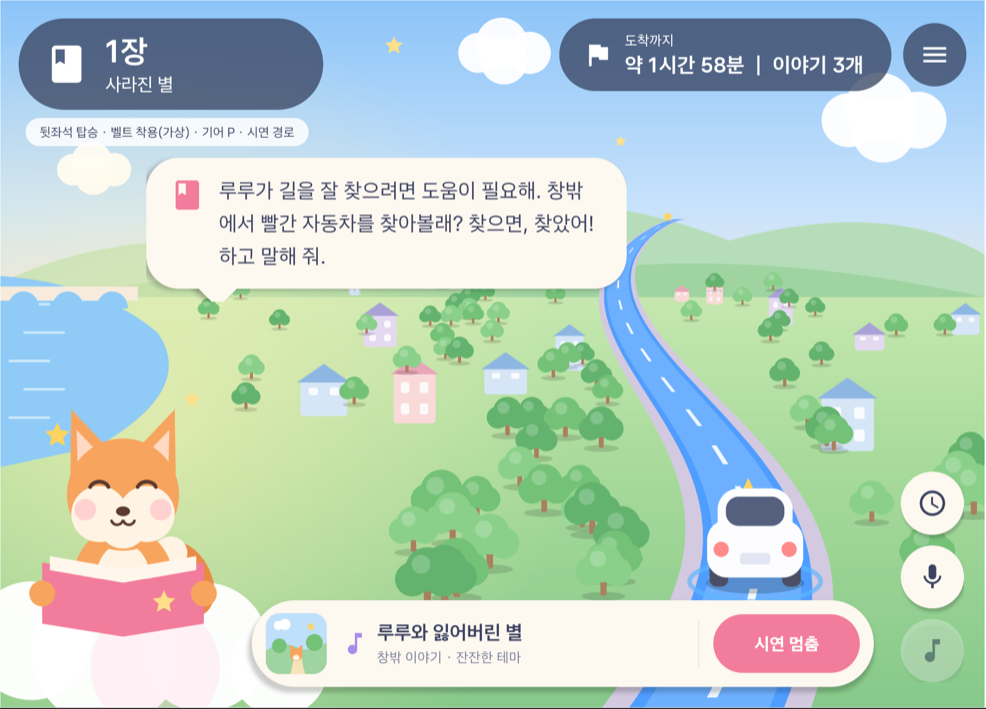
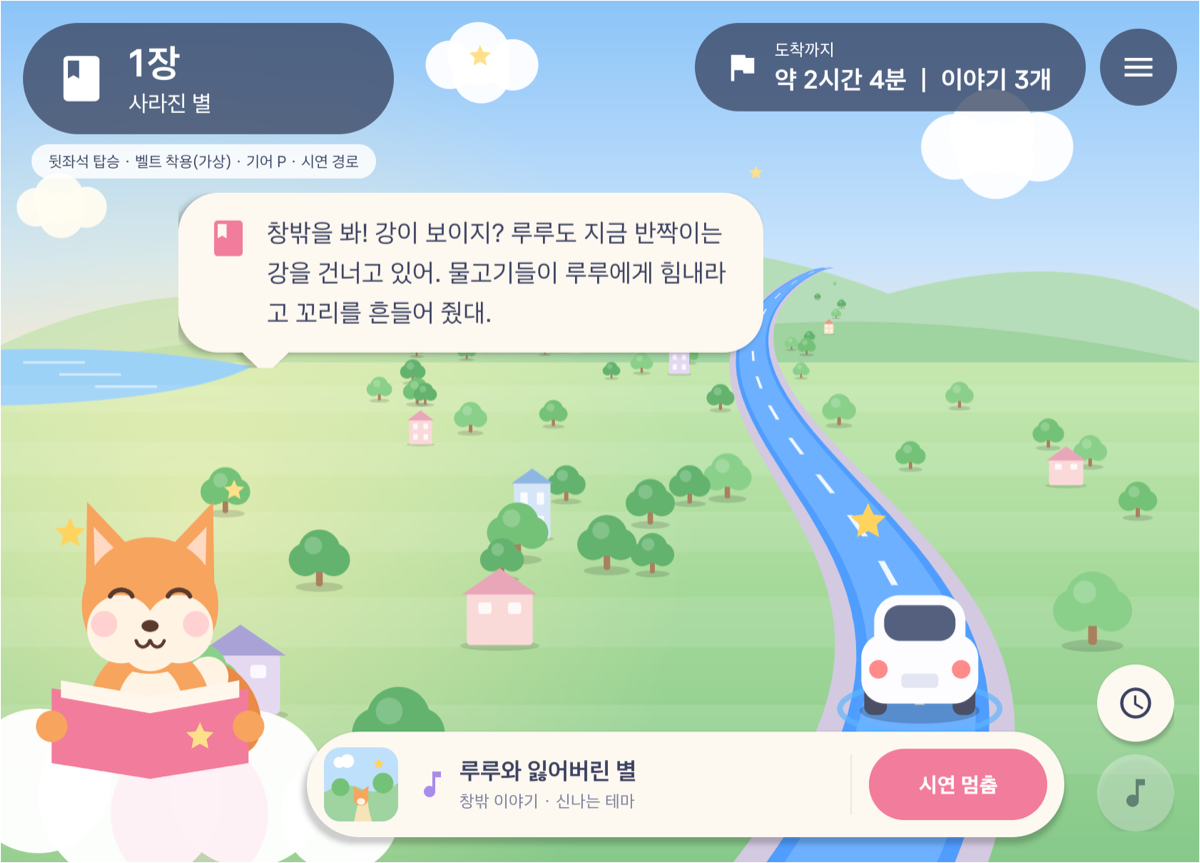
달릴 때 나무·집·땅이 길과 함께 다가오도록 배경 수정
- 길의 점선, 땅 줄무늬, 나무, 집이 같은 속도로 움직임
- 고정돼 있던 강과 다리는 멀리 있는 호수로 변경
- 스크린샷 갱신

diff --git a/WindowStory/app/src/main/java/com/changbak/story/ui/SceneView.kt b/WindowStory/app/src/main/java/com/changbak/story/ui/SceneView.kt
@@ -13,13 +13,14 @@ import android.os.SystemClock
 import android.util.AttributeSet
 import android.view.View
 import kotlin.math.PI
-import kotlin.math.abs
 import kotlin.math.pow
 import kotlin.math.sin
 
 /**
- * 동화책 느낌의 배경 장면. 하늘, 언덕, 강, 마을, 목적지로 이어지는 길, 자동차, 이야기꾼 여우 루루를 그린다.
+ * 동화책 느낌의 배경 장면. 하늘, 언덕, 호수, 마을, 목적지로 이어지는 길, 자동차, 이야기꾼 여우 루루를 그린다.
  *
+ * 달리는 동안에는 길의 점선뿐 아니라 길가의 나무와 집, 땅의 줄무늬가 함께 다가와서
+ * 자동차가 앞으로 나아가는 것처럼 보인다.
  * 길 위의 별은 다음 장이 시작되는 지점이고, 깃발은 목적지다.
  * 진행률이 오를수록 별과 깃발이 자동차 쪽으로 다가온다.
  */
@@ -36,7 +37,7 @@ class SceneView @JvmOverloads constructor(
         }
     var chapterCount = 4
 
-    /** true면 길의 점선이 흘러 자동차가 달리는 것처럼 보인다. */
+    /** true면 길과 주변 풍경이 다가와 자동차가 달리는 것처럼 보인다. */
     var moving = false
         set(value) {
             if (field == value) return
@@ -52,8 +53,20 @@ class SceneView @JvmOverloads constructor(
             invalidate()
         }
 
-    private class Tree(val x: Float, val y: Float, val size: Float, val tone: Int)
-    private class House(val x: Float, val y: Float, val w: Float, val h: Float, val color: Int, val roof: Int)
+    /**
+     * 길가의 나무나 집 하나. 화면 좌표가 아니라 "길을 따라 얼마나 멀리 있는지"(dist)로 위치를 기억한다.
+     * 차가 달리면 dist가 줄어들어 점점 가까워지고 커지며, 화면 아래로 지나가면 다시 지평선에서 나타난다.
+     */
+    private class Scenery(
+        val dist: Float,      // 0(바로 앞)~1(지평선). 정지 상태에서의 거리
+        val side: Float,      // -1 길 왼쪽, +1 길 오른쪽
+        val lateral: Float,   // 길에서 옆으로 떨어진 정도(길 반폭의 배수)
+        val isHouse: Boolean,
+        val size: Float,      // 나무 크기 또는 집 반폭
+        val tall: Float,      // 집 높이
+        val color: Int,
+        val roof: Int,
+    )
 
     private val fill = Paint(Paint.ANTI_ALIAS_FLAG)
     private val stroke = Paint(Paint.ANTI_ALIAS_FLAG).apply { style = Paint.Style.STROKE; strokeCap = Paint.Cap.ROUND }
@@ -62,10 +75,12 @@ class SceneView @JvmOverloads constructor(
     private var skyShader: Shader? = null
     private var groundShader: Shader? = null
     private var sunShader: Shader? = null
-    private val trees = mutableListOf<Tree>()
-    private val houses = mutableListOf<House>()
 
-    private var roadPhase = 0f
+    /** dist 오름차순으로 정렬해 둔다. */
+    private var scenery = emptyList<Scenery>()
+
+    /** 지금까지 달린 거리(0~1을 되풀이). 길의 점선, 땅의 줄무늬, 나무와 집이 모두 이 값으로 함께 움직인다. */
+    private var travel = 0f
     private var cloudShift = 0f
     private var lastFrame = 0L
 
@@ -73,6 +88,12 @@ class SceneView @JvmOverloads constructor(
     private fun roadX(u: Float) = width * (0.705f - 0.03f * u + 0.075f * sin(u * PI.toFloat() * 2.1f) * (1f - 0.35f * u))
     private fun roadY(u: Float) = height * (0.31f + 0.72f * (1f - u).pow(1.6f))
     private fun roadHalf(u: Float) = 10f + width * 0.105f * (1f - u).pow(1.7f)
+
+    /** 거리(0~1)를 화면의 길 위치 u로 바꾼다. 가까울수록 빨리 다가오는 것처럼 보이게 한다. */
+    private fun distToU(dist: Float) = dist.pow(0.75f)
+
+    /** 멀수록 작게 그리는 비율. 지평선에서는 0이라 새로 나타나는 것이 티 나지 않는다. */
+    private fun depthScale(u: Float) = 1.3f * (1f - u).pow(1.5f)
 
     override fun onSizeChanged(w: Int, h: Int, oldw: Int, oldh: Int) {
         val hf = h.toFloat()
@@ -90,50 +111,44 @@ class SceneView @JvmOverloads constructor(
             w * 0.16f, hf * 0.6f, w * 0.42f,
             intArrayOf(0x99FFF3B8.toInt(), 0x00FFF3B8), null, Shader.TileMode.CLAMP,
         )
-        placeScenery(w.toFloat(), hf)
+        if (scenery.isEmpty()) scenery = makeScenery()
     }
 
-    /** 나무와 집을 길과 강을 피해 흩어 놓는다. 위치는 항상 같다. */
-    private fun placeScenery(w: Float, h: Float) {
-        trees.clear()
-        houses.clear()
+    /** 길 양옆에 나무와 집을 흩어 놓는다. 항상 같은 배치가 나온다. */
+    private fun makeScenery(): List<Scenery> {
         var seed = 12345L
         fun rnd(): Float {
             seed = (seed * 1103515245L + 12345L) and 0x7fffffffL
             return seed / 2147483647f
         }
-        fun freeOfRoad(x: Float, y: Float, margin: Float): Boolean {
-            val u = (1f - ((y / h - 0.31f) / 0.72f).coerceIn(0f, 1f).pow(1f / 1.6f))
-            return abs(x - roadX(u)) > roadHalf(u) + margin
-        }
         val houseColors = intArrayOf(0xFFF7E3C8.toInt(), 0xFFE5D9F2.toInt(), 0xFFD6E6F7.toInt(), 0xFFFAD9D9.toInt())
         val roofColors = intArrayOf(0xFFE89A8B.toInt(), 0xFFA9A2D6.toInt(), 0xFF8DB7E2.toInt(), 0xFFE9A6B8.toInt())
-        repeat(60) {
-            val y = h * (0.40f + 0.24f * rnd())
-            val x = w * (0.30f + 0.70f * rnd())
-            val scale = ((y / h - 0.34f) / 0.3f).coerceIn(0.25f, 1.2f)
-            val hw = 44f * scale * (0.8f + 0.5f * rnd())
-            val hh = 78f * scale * (0.7f + 0.9f * rnd())
+        val list = mutableListOf<Scenery>()
+        // 길이 화면 오른쪽에 있어서 왼쪽 들판이 넓다. 왼쪽에 더 많이, 더 멀리까지 놓는다.
+        repeat(TREE_COUNT) { i ->
+            val left = i % 10 < 7
+            val lateral = if (left) 1.5f + 15f * rnd().pow(1.4f) else 1.5f + 5f * rnd()
+            list.add(
+                Scenery(
+                    dist = rnd(), side = if (left) -1f else 1f, lateral = lateral, isHouse = false,
+                    size = 46f + 30f * rnd(), tall = 0f,
+                    color = TREE_TONES[(rnd() * TREE_TONES.size).toInt().coerceIn(0, TREE_TONES.size - 1)], roof = 0,
+                ),
+            )
+        }
+        repeat(HOUSE_COUNT) { i ->
+            val left = i % 4 != 0
             val pick = (rnd() * 4).toInt().coerceIn(0, 3)
-            val tooClose = houses.any { abs(it.x - x) < (it.w + hw) * 1.25f && abs(it.y - y) < 60f }
-            if (houses.size < 12 && !tooClose && freeOfRoad(x, y, hw + 24f)) {
-                houses.add(House(x, y, hw, hh, houseColors[pick], roofColors[pick]))
-            }
+            list.add(
+                Scenery(
+                    dist = (i + rnd() * 0.8f) / HOUSE_COUNT, side = if (left) -1f else 1f,
+                    lateral = if (left) 2.6f + 9f * rnd() else 2.6f + 3f * rnd(), isHouse = true,
+                    size = 40f + 22f * rnd(), tall = 70f + 70f * rnd(),
+                    color = houseColors[pick], roof = roofColors[pick],
+                ),
+            )
         }
-        repeat(220) {
-            val y = h * (0.39f + 0.60f * rnd())
-            val x = w * rnd()
-            val depth = ((y / h - 0.36f) / 0.64f).coerceIn(0f, 1f)
-            val size = 16f + 70f * depth.pow(1.4f) * (0.7f + 0.6f * rnd())
-            val inRiver = x < w * 0.17f && y < h * 0.62f
-            val inFoxCorner = x < w * 0.36f && y > h * 0.60f
-            val underBar = y > h * 0.86f && x > w * 0.25f
-            if (trees.size < 70 && !inRiver && !inFoxCorner && !underBar && freeOfRoad(x, y, size + 26f)) {
-                trees.add(Tree(x, y, size, (rnd() * 3).toInt()))
-            }
-        }
-        trees.sortBy { it.y }
-        houses.sortBy { it.y }
+        return list.sortedBy { it.dist }
     }
 
     override fun onDraw(canvas: Canvas) {
@@ -143,19 +158,20 @@ class SceneView @JvmOverloads constructor(
         val dt = ((now - lastFrame).coerceIn(0L, 60L)) / 1000f
         lastFrame = now
         if (moving) {
-            roadPhase = (roadPhase + dt * 0.9f) % 1f
-            cloudShift = (cloudShift + dt * 6f) % (w * 1.4f)
+            travel = (travel + dt * TRAVEL_PER_SEC) % 1f
+            cloudShift = (cloudShift + dt * 3f) % (w * 1.4f)
         }
 
         drawSky(canvas, w, h)
         drawHills(canvas, w, h)
         drawGround(canvas, w, h)
-        drawRiver(canvas, w, h)
-        houses.forEach { drawHouse(canvas, it) }
+        drawLake(canvas, w, h)
+        drawGroundBands(canvas, w, h)
         drawRoad(canvas)
-        trees.forEach { drawTree(canvas, it) }
+        drawScenery(canvas, nearerThanCar = false)
         drawMarkers(canvas)
         drawCar(canvas)
+        drawScenery(canvas, nearerThanCar = true)
         drawFox(canvas, w * 0.125f, h * 0.715f, h / 1210f * 0.92f, now)
 
         if (moving || talking) postInvalidateOnAnimation()
@@ -212,68 +228,101 @@ class SceneView @JvmOverloads constructor(
         fill.shader = null
     }
 
-    private fun drawRiver(canvas: Canvas, w: Float, h: Float) {
-        fill.color = 0xFF8FCBF6.toInt()
+    /** 멀리 보이는 호수. 지평선 가까이에 있어서 달려도 거의 움직이지 않는다. */
+    private fun drawLake(canvas: Canvas, w: Float, h: Float) {
+        fill.color = 0xFF9DD2F7.toInt()
         path.reset()
-        path.moveTo(0f, h * 0.39f)
-        path.quadTo(w * 0.10f, h * 0.40f, w * 0.16f, h * 0.47f)
-        path.quadTo(w * 0.20f, h * 0.55f, w * 0.10f, h * 0.63f)
-        path.lineTo(0f, h * 0.66f)
+        path.moveTo(0f, h * 0.405f)
+        path.quadTo(w * 0.12f, h * 0.40f, w * 0.21f, h * 0.425f)
+        path.quadTo(w * 0.15f, h * 0.465f, 0f, h * 0.47f)
         path.close()
         canvas.drawPath(path, fill)
         stroke.color = 0x99FFFFFF.toInt()
-        stroke.strokeWidth = 4f
-        for (i in 0 until 5) {
-            val y = h * (0.43f + 0.04f * i)
-            canvas.drawLine(w * (0.01f + 0.015f * (i % 2)), y, w * (0.05f + 0.015f * (i % 2)), y, stroke)
-        }
-        // 다리
-        fill.color = 0xFFF6EBDD.toInt()
-        canvas.drawRect(0f, h * 0.405f, w * 0.14f, h * 0.425f, fill)
-        fill.color = 0xFF8FCBF6.toInt()
+        stroke.strokeWidth = 3f
         for (i in 0 until 3) {
-            rect.set(w * (0.008f + 0.045f * i), h * 0.412f, w * (0.04f + 0.045f * i), h * 0.46f)
-            canvas.drawArc(rect, 180f, 180f, true, fill)
+            val y = h * (0.42f + 0.014f * i)
+            canvas.drawLine(w * (0.02f + 0.03f * i), y, w * (0.07f + 0.03f * i), y, stroke)
         }
     }
 
-    private fun drawHouse(canvas: Canvas, house: House) {
-        fill.color = house.color
-        rect.set(house.x - house.w, house.y - house.h, house.x + house.w, house.y)
-        canvas.drawRoundRect(rect, 6f, 6f, fill)
+    /** 땅의 옅은 줄무늬. 길의 점선과 같은 속도로 다가와서 땅 전체가 뒤로 흐르는 것처럼 보인다. */
+    private fun drawGroundBands(canvas: Canvas, w: Float, h: Float) {
+        fill.color = 0x16FFFFFF
+        val top = h * 0.445f
+        for (i in 0 until BAND_COUNT) {
+            val near = ((i.toFloat() / BAND_COUNT - travel) % 1f + 1f) % 1f
+            val far = (near + 0.5f / BAND_COUNT).coerceAtMost(1f)
+            val yNear = roadY(distToU(near))
+            val yFar = roadY(distToU(far)).coerceAtLeast(top)
+            if (yNear > yFar) canvas.drawRect(0f, yFar, w, yNear, fill)
+        }
+    }
+
+    /**
+     * 나무와 집을 먼 것부터 그린다. 자동차보다 앞쪽(가까운 쪽)에 있는 것은 자동차를 그린 뒤에 그려서
+     * 앞뒤 순서가 맞게 한다.
+     */
+    private fun drawScenery(canvas: Canvas, nearerThanCar: Boolean) {
+        val n = scenery.size
+        if (n == 0) return
+        // 지금 거리 = (처음 거리 - 달린 거리)를 0~1로 되돌린 값. 처음 거리가 travel 바로 아래인 것이 가장 멀다.
+        var split = scenery.indexOfFirst { it.dist >= travel }
+        if (split < 0) split = n
+        for (k in 0 until n) {
+            val index = ((split - 1 - k) % n + n) % n
+            val item = scenery[index]
+            val u = distToU(((item.dist - travel) % 1f + 1f) % 1f)
+            if ((u < CAR_U) != nearerThanCar) continue
+            val scale = depthScale(u)
+            if (scale < 0.03f) continue
+            val x = roadX(u) + item.side * roadHalf(u) * item.lateral
+            val y = roadY(u)
+            val reach = item.size * scale * 1.5f
+            if (x < -reach || x > width + reach) continue
+            if (item.isHouse) drawHouse(canvas, x, y, item.size * scale, item.tall * scale, item.color, item.roof)
+            else drawTree(canvas, x, y, item.size * scale, item.color)
+        }
+    }
+
+    private fun drawHouse(canvas: Canvas, x: Float, y: Float, hw: Float, hh: Float, color: Int, roof: Int) {
+        fill.color = 0x1F000000
+        rect.set(x - hw * 1.2f, y - hw * 0.14f, x + hw * 1.2f, y + hw * 0.18f)
+        canvas.drawOval(rect, fill)
+        fill.color = color
+        rect.set(x - hw, y - hh, x + hw, y)
+        canvas.drawRoundRect(rect, hw * 0.12f, hw * 0.12f, fill)
         // 세모 지붕
-        fill.color = house.roof
+        fill.color = roof
         path.reset()
-        path.moveTo(house.x - house.w * 1.15f, house.y - house.h + 2f)
-        path.lineTo(house.x, house.y - house.h - house.w * 0.75f)
-        path.lineTo(house.x + house.w * 1.15f, house.y - house.h + 2f)
+        path.moveTo(x - hw * 1.15f, y - hh + 2f)
+        path.lineTo(x, y - hh - hw * 0.75f)
+        path.lineTo(x + hw * 1.15f, y - hh + 2f)
         path.close()
         canvas.drawPath(path, fill)
         // 창문
         fill.color = 0xD9FFFFFF.toInt()
-        val rows = if (house.h > house.w * 1.6f) 2 else 1
+        val rows = if (hh > hw * 1.6f) 2 else 1
         for (r in 0 until rows) for (c in 0 until 2) {
-            val cx = house.x - house.w * 0.45f + house.w * 0.9f * c
-            val top = house.y - house.h * (0.82f - 0.42f * r)
-            rect.set(cx - house.w * 0.2f, top, cx + house.w * 0.2f, top + house.h * 0.22f)
-            canvas.drawRoundRect(rect, 4f, 4f, fill)
+            val cx = x - hw * 0.45f + hw * 0.9f * c
+            val top = y - hh * (0.82f - 0.42f * r)
+            rect.set(cx - hw * 0.2f, top, cx + hw * 0.2f, top + hh * 0.22f)
+            canvas.drawRoundRect(rect, hw * 0.08f, hw * 0.08f, fill)
         }
     }
 
-    private fun drawTree(canvas: Canvas, tree: Tree) {
-        val s = tree.size
+    private fun drawTree(canvas: Canvas, x: Float, y: Float, s: Float, color: Int) {
         fill.color = 0x22000000
-        rect.set(tree.x - s * 0.7f, tree.y - s * 0.12f, tree.x + s * 0.7f, tree.y + s * 0.16f)
+        rect.set(x - s * 0.7f, y - s * 0.12f, x + s * 0.7f, y + s * 0.16f)
         canvas.drawOval(rect, fill)
         fill.color = 0xFFA9805E.toInt()
-        rect.set(tree.x - s * 0.1f, tree.y - s * 0.7f, tree.x + s * 0.1f, tree.y)
+        rect.set(x - s * 0.1f, y - s * 0.7f, x + s * 0.1f, y)
         canvas.drawRoundRect(rect, s * 0.08f, s * 0.08f, fill)
-        fill.color = TREE_TONES[tree.tone % TREE_TONES.size]
-        canvas.drawCircle(tree.x, tree.y - s * 1.05f, s * 0.62f, fill)
-        canvas.drawCircle(tree.x - s * 0.42f, tree.y - s * 0.78f, s * 0.48f, fill)
-        canvas.drawCircle(tree.x + s * 0.42f, tree.y - s * 0.78f, s * 0.48f, fill)
+        fill.color = color
+        canvas.drawCircle(x, y - s * 1.05f, s * 0.62f, fill)
+        canvas.drawCircle(x - s * 0.42f, y - s * 0.78f, s * 0.48f, fill)
+        canvas.drawCircle(x + s * 0.42f, y - s * 0.78f, s * 0.48f, fill)
         fill.color = 0x33FFFFFF
-        canvas.drawCircle(tree.x - s * 0.18f, tree.y - s * 1.2f, s * 0.26f, fill)
+        canvas.drawCircle(x - s * 0.18f, y - s * 1.2f, s * 0.26f, fill)
     }
 
     private fun drawRoad(canvas: Canvas) {
@@ -283,11 +332,10 @@ class SceneView @JvmOverloads constructor(
         fillRoad(canvas, 0.60f, 0xFF6DB0FF.toInt())
         // 가운데 점선: 달리는 중이면 아래로 흘러내린다
         fill.color = 0xE6FFFFFF.toInt()
-        val count = 16
+        val count = DASH_COUNT
         for (i in 0 until count) {
-            val z = ((i - roadPhase) / count)
-            if (z < 0f) continue
-            val u0 = z.pow(0.75f)
+            val z = ((i.toFloat() / count - travel) % 1f + 1f) % 1f
+            val u0 = distToU(z)
             val u1 = (u0 + 0.012f + 0.03f * (1f - u0)).coerceAtMost(1f)
             path.reset()
             path.moveTo(roadX(u0) - roadHalf(u0) * 0.05f, roadY(u0))
@@ -512,6 +560,13 @@ class SceneView @JvmOverloads constructor(
 
         /** 길 위에 보이는 앞쪽 구간의 길이(전체 경로 대비). */
         const val VIEW_AHEAD = 0.3f
+
+        /** 1초에 달리는 거리. 지평선의 나무가 화면 아래로 지나가기까지 약 30초 걸린다. */
+        const val TRAVEL_PER_SEC = 0.033f
+        const val DASH_COUNT = 16
+        const val BAND_COUNT = 9
+        const val TREE_COUNT = 64
+        const val HOUSE_COUNT = 11
         val TREE_TONES = intArrayOf(0xFF74C277.toInt(), 0xFF8AD08A.toInt(), 0xFF63B36E.toInt())
     }
 }
